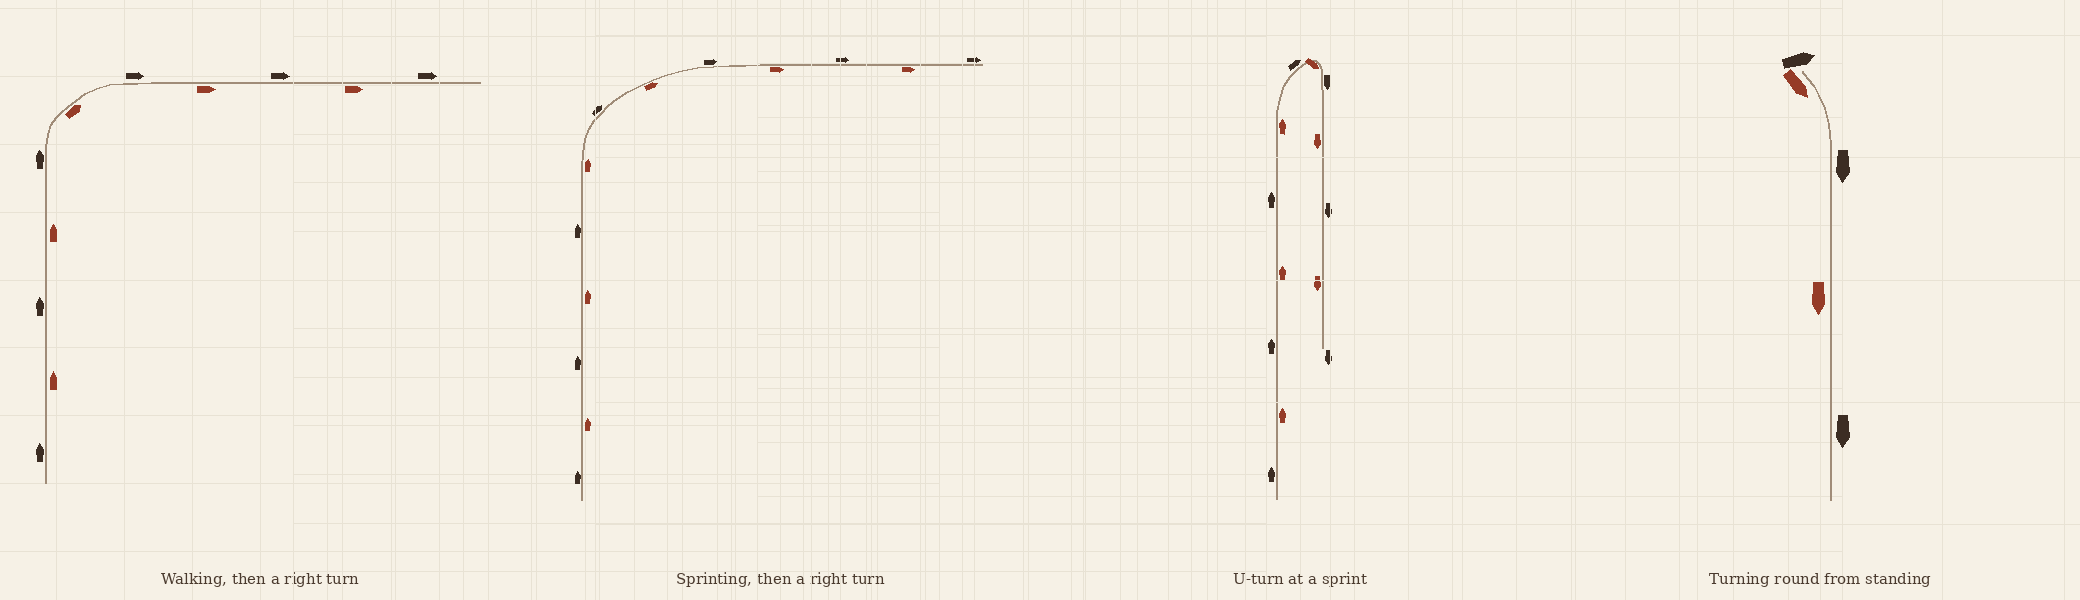
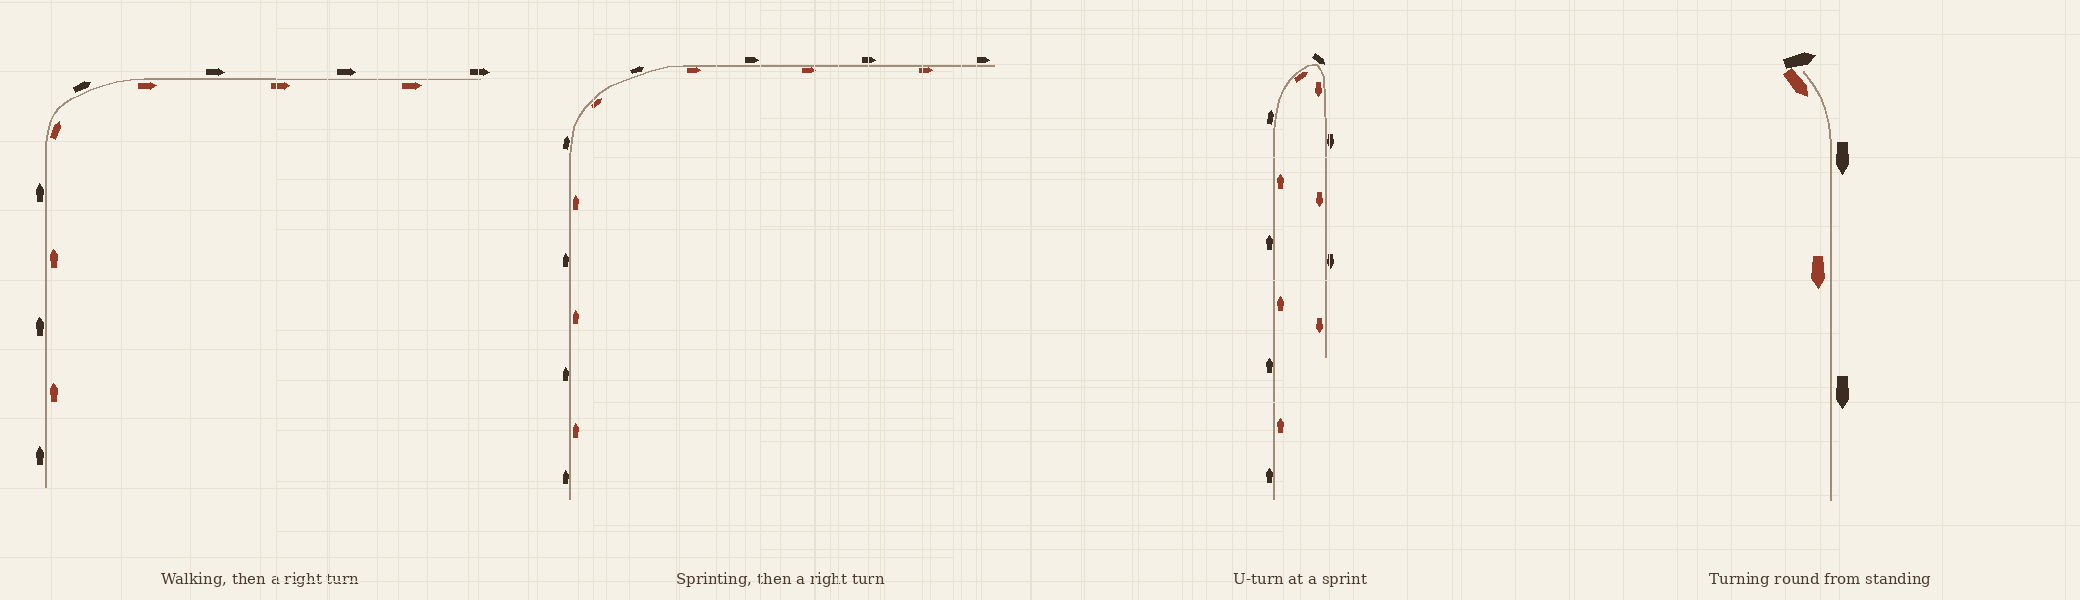
Ctrl strolls at a real walking pace; slightly shorter sprint strides
Claude-Session: https://claude.ai/code/session_01SCdejJ1UF8RUxAkkFhZXGU

diff --git a/OdinsCoin/Assets/Scripts/Core/GameInput.cs b/OdinsCoin/Assets/Scripts/Core/GameInput.cs
@@ -5,7 +5,7 @@ using UnityEngine.InputSystem;
 
 namespace OdinsCoin
 {
-    public enum Key { Up, Down, Left, Right, Jump, Interact, Sprint, Coin, Pause, SailUp, SailDown }
+    public enum Key { Up, Down, Left, Right, Jump, Interact, Sprint, Coin, Pause, SailUp, SailDown, Walk }
 
     /// <summary>Keyboard + mouse that works with both the old Input Manager and the new Input System.</summary>
     public static class GameInput
@@ -29,6 +29,7 @@ namespace OdinsCoin
                 case Key.Jump: return k.spaceKey;
                 case Key.Interact: return k.eKey;
                 case Key.Sprint: return k.leftShiftKey;
+                case Key.Walk: return k.leftCtrlKey;
                 case Key.Coin: return k.fKey;
                 case Key.Pause: return k.escapeKey;
                 case Key.SailUp: return k.rKey;
@@ -79,6 +80,7 @@ namespace OdinsCoin
                 case Key.Jump: return KeyCode.Space;
                 case Key.Interact: return KeyCode.E;
                 case Key.Sprint: return KeyCode.LeftShift;
+                case Key.Walk: return KeyCode.LeftControl;
                 case Key.Coin: return KeyCode.F;
                 case Key.Pause: return KeyCode.Escape;
                 case Key.SailUp: return KeyCode.R;

diff --git a/OdinsCoin/Assets/Scripts/Player/Locomotion.cs b/OdinsCoin/Assets/Scripts/Player/Locomotion.cs
@@ -30,7 +30,7 @@ namespace OdinsCoin
         /// <summary>Steps per second when turning on the spot.</summary>
         public float pivotCadence = 3.8f;
         /// <summary>Stride of one step at a slow walk and at a sprint (m).</summary>
-        public float shortStep = 0.6f, longStep = 1.35f;
+        public float shortStep = 0.6f, longStep = 1.15f;
         /// <summary>Half the gap between the feet (m).</summary>
         public float footSpacing = 0.1f;
 
@@ -143,7 +143,7 @@ namespace OdinsCoin
                 // Turn with the step: slow off the planted foot, quickest mid-swing, easing into the landing. The body
                 // follows that curve at a limited rate, so a plan changed mid-step never snaps it round.
                 float along = stepFrom + Mathf.DeltaAngle(stepFrom, stepTo) * Smooth(Mathf.Clamp01(phase));
-                heading = Mathf.MoveTowardsAngle(heading, along, allow * cadence * 1.6f * dt);
+                heading = Mathf.MoveTowardsAngle(heading, along, allow * cadence * 1.4f * dt);
                 if (phase >= 1f)
                 {
                     // The swinging foot lands; the other one starts its swing, planned from where the body now faces.

diff --git a/OdinsCoin/Assets/Scripts/Player/Viking.cs b/OdinsCoin/Assets/Scripts/Player/Viking.cs
@@ -11,6 +11,8 @@ namespace OdinsCoin
     public class Viking : MonoBehaviour
     {
         public const float WalkSpeed = 4.2f, RunSpeed = 6.5f, SwimSpeed = 2.4f, JumpSpeed = 5.5f;
+        /// <summary>Holding Ctrl: a real, unhurried walk (the default pace is a brisk jog).</summary>
+        public const float StrollSpeed = 1.7f;
         /// <summary>A chest full of gold is heavy: no running, no jumping, slow swimming.</summary>
         public const float CarrySpeed = 3f, CarrySwimSpeed = 1.5f;
         const float Gravity = 18f;
@@ -158,7 +160,7 @@ namespace OdinsCoin
             Vector3 forward = rig != null ? rig.FlatForward : Vector3.forward;
             Vector3 right = new Vector3(forward.z, 0f, -forward.x);
             Vector3 move = forward * input.y + right * input.x;
-            float speed = Swimming ? SwimSpeed : GameInput.Held(Key.Sprint) ? RunSpeed : WalkSpeed;
+            float speed = Swimming ? SwimSpeed : GameInput.Held(Key.Sprint) ? RunSpeed : GameInput.Held(Key.Walk) ? StrollSpeed : WalkSpeed;
             if (Carrying != null) speed = Swimming ? CarrySwimSpeed : CarrySpeed;
             if (combat != null && combat.Blocking) speed *= 0.5f;
 

diff --git a/OdinsCoin/Assets/Scripts/UI/ShipHud.cs b/OdinsCoin/Assets/Scripts/UI/ShipHud.cs
@@ -26,7 +26,7 @@ namespace OdinsCoin
                     ? "At the helm: A/D steer · R raise sail · Q lower sail · W row (sail down) · E let go"
                     : Player != null && Player.Carrying != null
                         ? "Carrying a chest: put it down on deck (E) to stow it, sell it to Gunnar in the Home Fjord"
-                        : "WASD walk · Shift run · Space jump · LMB axe · RMB shield · E use / pick up / bail · scroll zoom · Esc menu");
+                        : "WASD move · Shift run · Ctrl walk · Space jump · LMB attack (again for a combo) · RMB shield · E use / pick up / bail · scroll zoom · Esc menu");
             GUI.Box(new Rect(10, 10, 380, 120), GUIContent.none);
             GUI.Label(new Rect(20, 16, 370, 110), text, style);
 

diff --git a/tools/preview/HeroPreview.cs b/tools/preview/HeroPreview.cs
@@ -275,7 +275,8 @@ public static class HeroPreview
             // The script: walk, sprint, swing right, jump, keep running, let go.
             Vector2 wish = t < 0.3f ? Vector2.zero : t < 4.3f ? new Vector2(0f, 1f) : Vector2.zero;
             if (t > 2.6f && t < 3.0f) wish = new Vector2(1f, 1f);
-            float maxSpeed = t > 1.6f ? 6.5f : 4.2f;
+            // Walk frames are a real stroll (Ctrl), the run frames a sprint (Shift).
+            float maxSpeed = t > 1.6f ? 6.5f : 1.7f;
             if (!jumped && t >= 3.15f) { jumped = true; vy = 5.5f; }
             bool grounded = y <= 0f && vy <= 0f;
             if (grounded) loco.Step(wish, maxSpeed, dt); else loco.Air(wish, dt);

diff --git a/OdinsCoin/Assets/Scripts/Characters/HeroAnimator.cs b/OdinsCoin/Assets/Scripts/Characters/HeroAnimator.cs
@@ -210,7 +210,7 @@ namespace OdinsCoin
             if (speed < 0.05f || cadence <= 0f) return 1f;
             float travel = speed / cadence;
             float needed = 2f * Mathf.Asin(Mathf.Clamp(travel * 0.5f / (Thigh + Shin), 0f, 0.9f)) * Mathf.Rad2Deg;
-            return Mathf.Clamp(needed / Mathf.Lerp(WalkSweep, RunSweep, run), 0.6f, 1.8f);
+            return Mathf.Clamp(needed / Mathf.Lerp(WalkSweep, RunSweep, run), 0.6f, 1.35f);
         }
 
         // Percent of the gait cycle, and the angle there.

diff --git a/OdinsCoin/CHARACTERS.md b/OdinsCoin/CHARACTERS.md
@@ -122,5 +122,6 @@ Alt bygges i kode (ingen modellfiler trengs). `tools/preview/render.sh` tegner e
   - [x] Forhåndsvisning: [docs/footsteps.png](docs/footsteps.png) viser fotsporene ovenfra i en sving når figuren går og når den sprinter, en U-sving i sprint og en snuing fra stillestående. [docs/motion.png](docs/motion.png) viser gange, sprint, hopp og landing, og [docs/attacks.png](docs/attacks.png) viser slagene.
   - [x] Knær og ekte gange: beina har kneledd, og alt fra kneet og ned (legg, støvler, buksebein) bøyer seg med det. Hofte og kne følger målte gangkurver for mennesker. For gange er de etter Winters normaldata, med 60 % av skrittet på bakken. For løping har foten 38 % bakketid og bøyer kneet til over 100° i svingfasen. Gange glir over i løping med farten. Kroppen hviler på det lengste beinet, så den bølger av seg selv og synker ned i en landing. I hoppet strekkes beina i satsen, trekkes opp på toppen og strekkes mot bakken i fallet, og knærne svikter ved landing.
   - [x] Føttene står stille på bakken: lårets sving skaleres slik at foten som står nede blir der mens kroppen går over den, både i gange og løp. En test måler at foten sklir lite. Spillets gange (4,2 m/s) er egentlig et raskt jogg, så løpesteget kommer tidlig inn.
+  - [x] Rolig gange: hold Ctrl for å gå sakte med ekte gangsteg. Vanlig fart er et raskt jogg, og Shift gir sprint. Løpesteget er kortet litt ned, så bakbeinet ikke strekker seg lenger bak enn en ekte løper.
   - [x] Ankler: foten under ankelen bøyer seg for seg selv. Den ruller fra hæl til tå etter målte ankelkurver, strekker tærne i avsparket og i lufta, og bøyer dem opp for å ta imot landingen.
   - [x] Flere slag per våpen (kombinasjoner): trykker du angrep igjen mens et slag pågår, går det rett over i neste. Øks: hogg ovenfra, skrått hugg og bredt feie-slag. Sverd: hugg, bakhåndshugg og utfall. Spyd: stikk, overhåndsstikk og feiing med skaftet. Stav: slag ovenfra, feiing og støt. Bue: full spenning og kjapt skudd. Uten våpen: jab, kryss og uppercut. Det siste slaget i rekken slår hardest.
